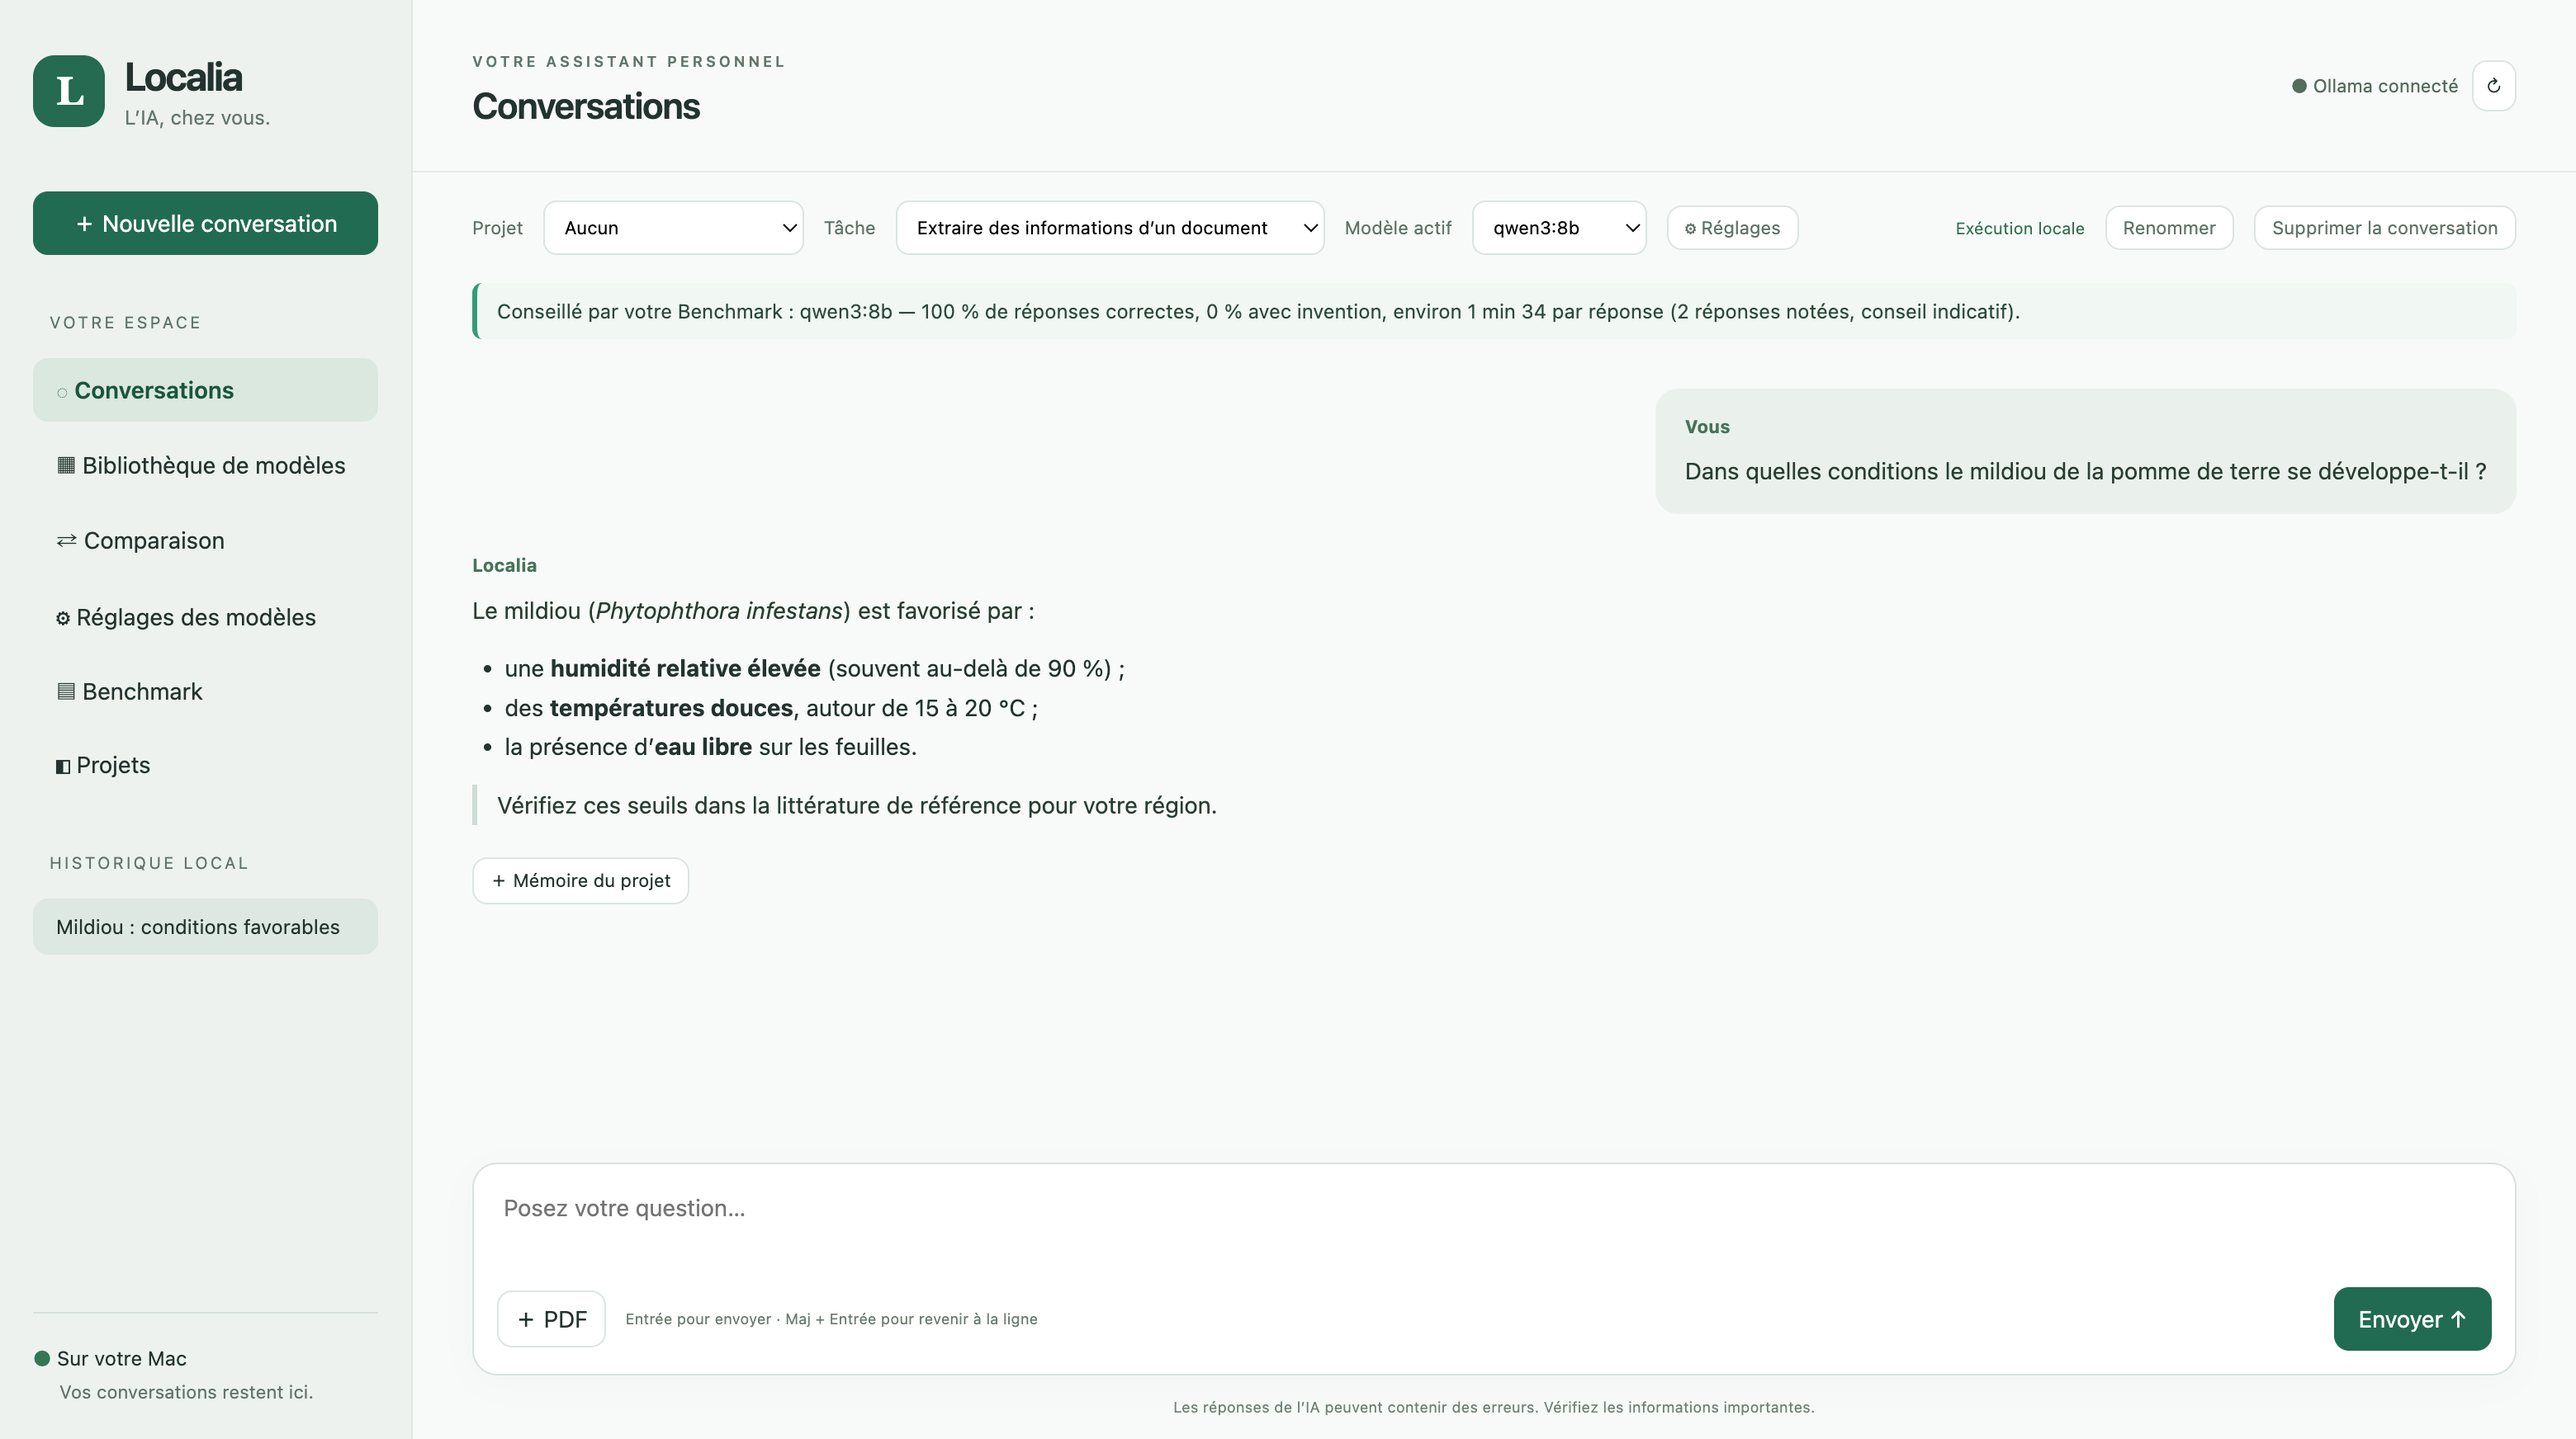
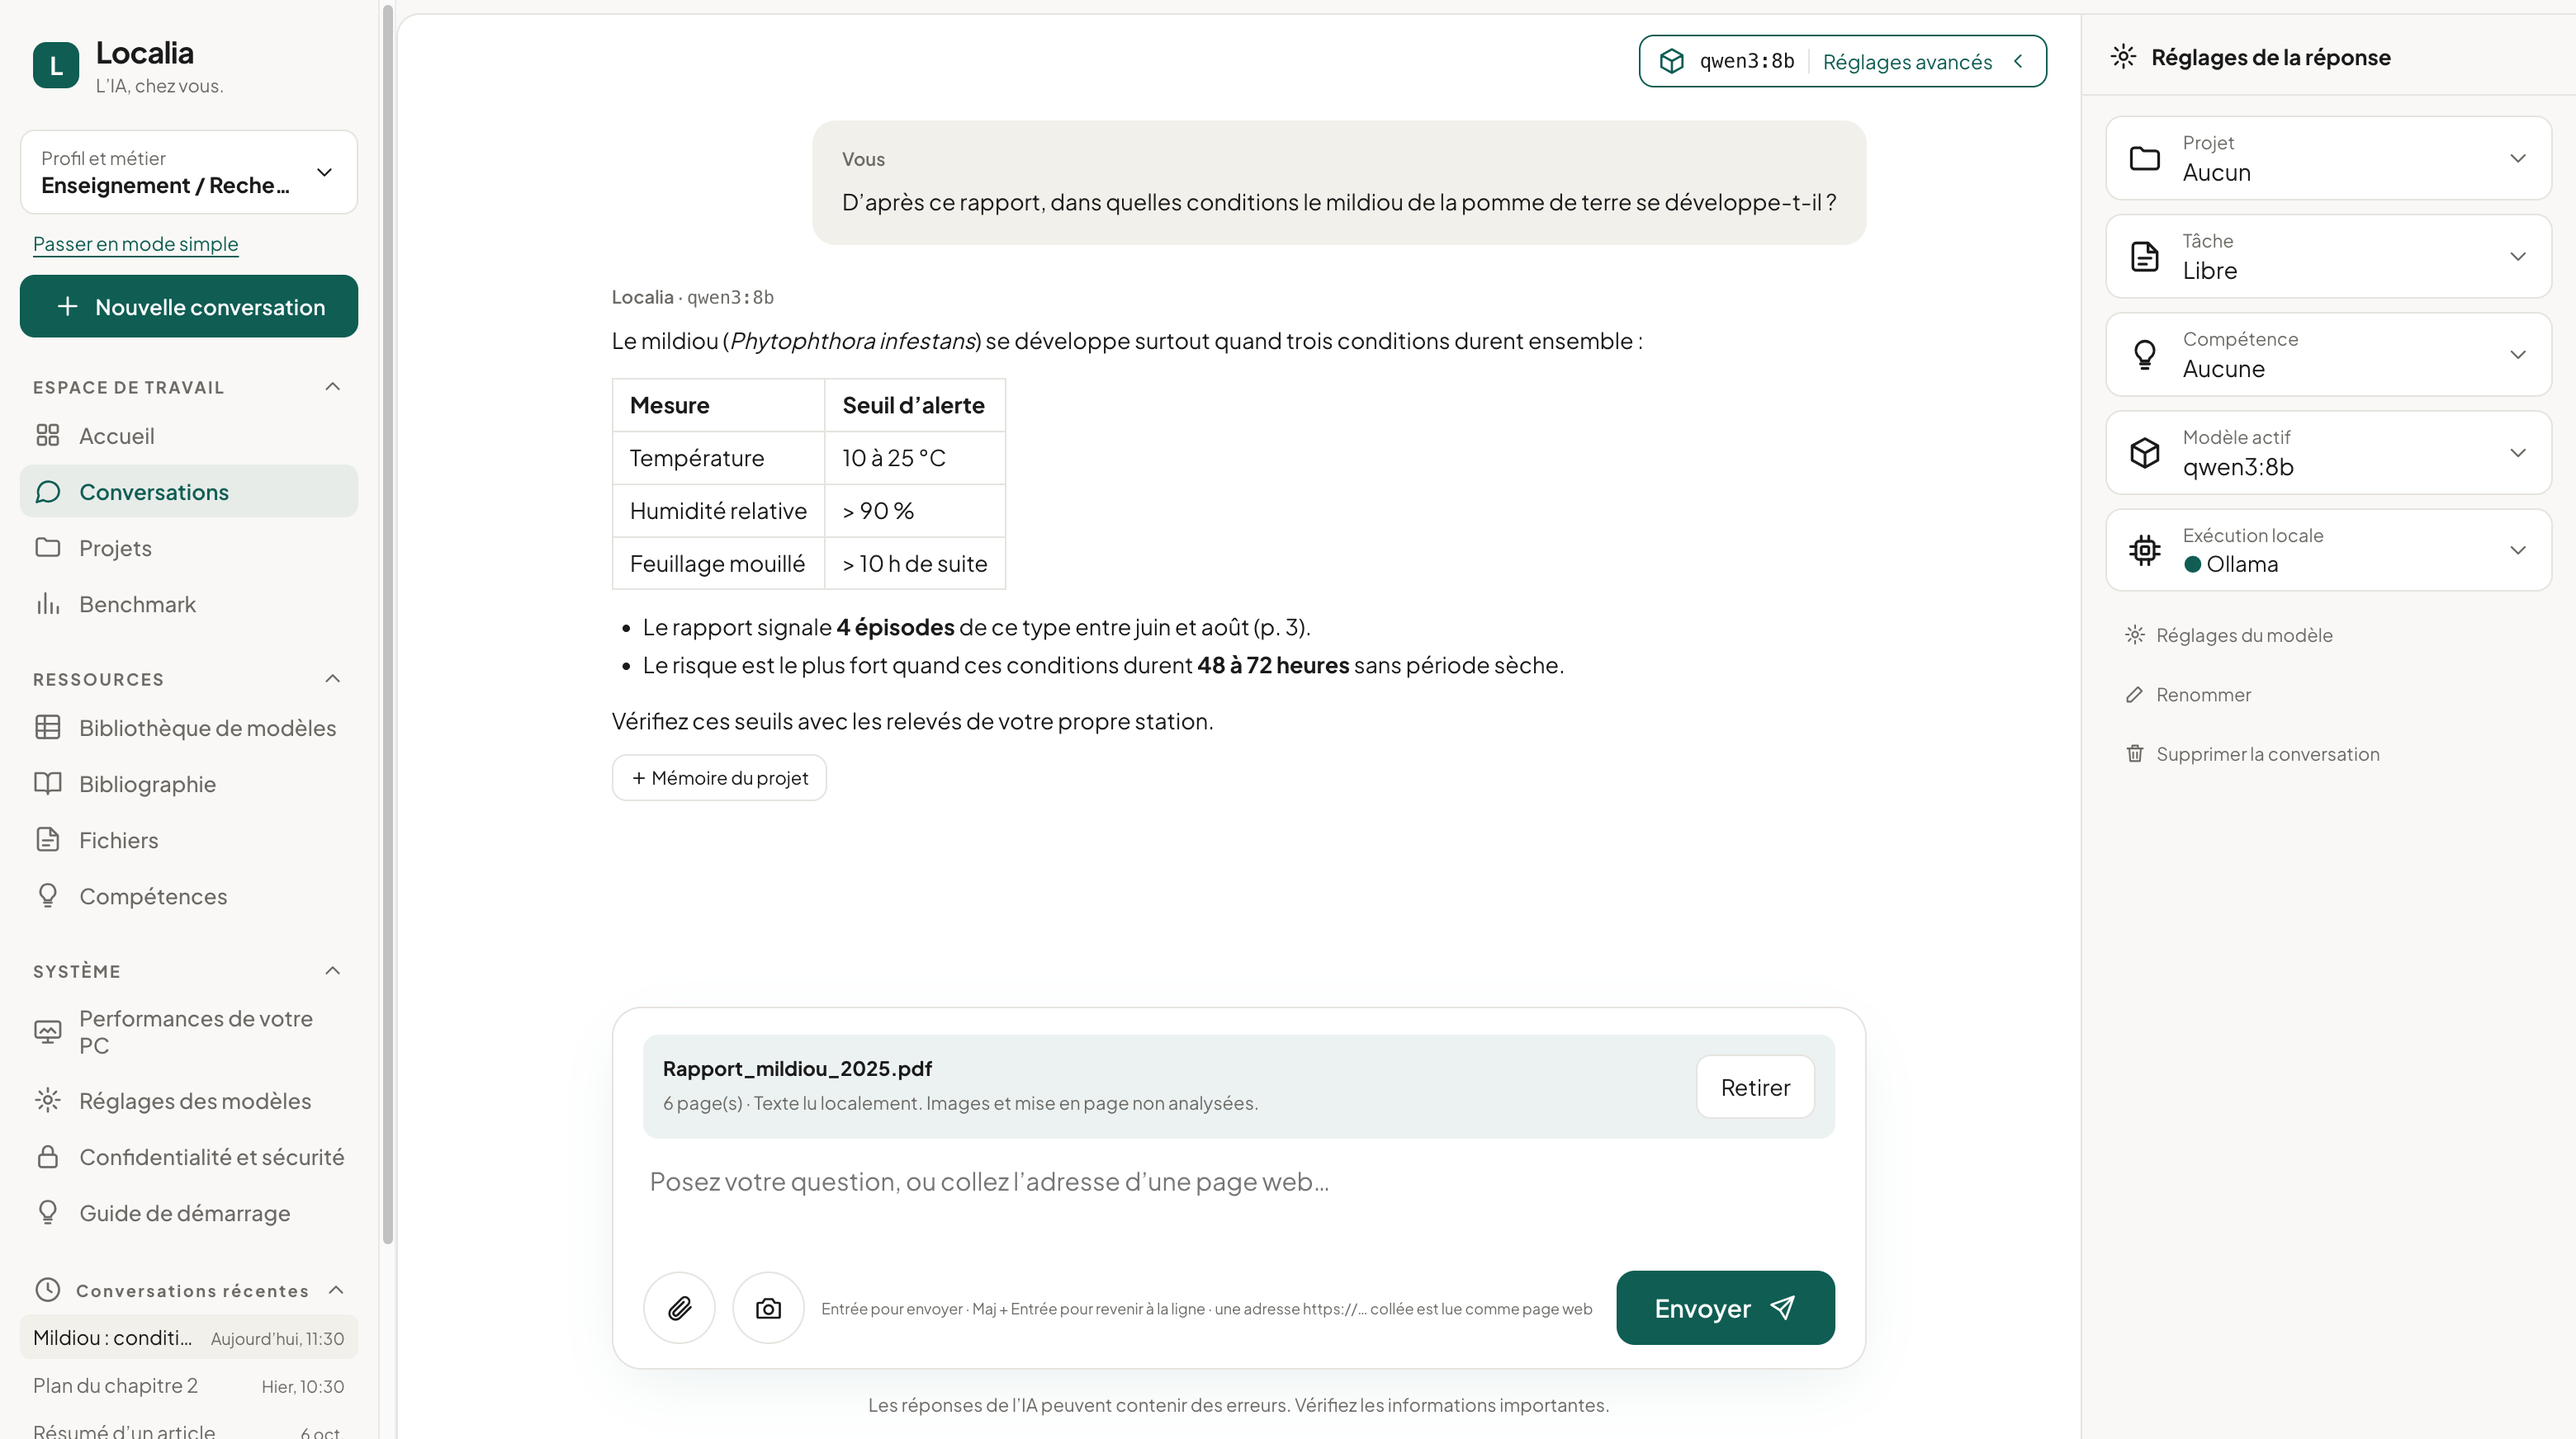
README : captures de la nouvelle interface (modes simple et avancé)

diff --git a/README.fr.md b/README.fr.md
@@ -6,8 +6,10 @@
 
 Localia est une application de bureau pour macOS, Windows et Linux, pour utiliser des modèles de langage locaux — avec son **moteur intégré** (llama.cpp, modèles téléchargés depuis Hugging Face) ou avec [Ollama](https://ollama.com) — et surtout pour **les comparer de façon mesurable sur vos propres tâches**. Tout reste sur votre machine : aucun modèle cloud, aucune télémétrie.
 
-| Conversation | Benchmark |
+| Mode simple | Mode avancé : accueil |
 |---|---|
+| ![Mode simple : une question directe, avec le modèle conseillé pour votre métier](docs/simple.png) | ![Mode avancé : actions, modèle conseillé, travail récent et état du système](docs/home.png) |
+| **Conversation** | **Benchmark** |
 | ![Conversation avec un modèle local](docs/chat.png) | ![Benchmark : résultats par modèle](docs/benchmark.png) |
 | **Comparaison d'une série de questions** | **Graphiques du Benchmark** |
 | ![Vue d'ensemble d'une comparaison](docs/comparison.png) | ![Graphiques du Benchmark](docs/benchmark-charts.png) |

diff --git a/README.md b/README.md
@@ -6,8 +6,10 @@
 
 Localia is a desktop application for macOS, Windows and Linux for working with local language models — with its **integrated engine** (llama.cpp, models downloaded from Hugging Face) or with [Ollama](https://ollama.com) — and for **benchmarking those models on your own tasks**. Everything runs on your machine: no cloud model, no telemetry.
 
-| Chat | Benchmark |
+| Simple mode | Advanced mode: home |
 |---|---|
+| ![Simple mode: a direct question, with the model recommended for your profession](docs/simple.png) | ![Advanced mode: actions, recommended model, recent work and system status](docs/home.png) |
+| **Chat** | **Benchmark** |
 | ![Chat with a local model](docs/chat.png) | ![Benchmark: per-model results](docs/benchmark.png) |
 | **Comparison of a question series** | **Benchmark charts** |
 | ![Comparison overview](docs/comparison.png) | ![Benchmark charts](docs/benchmark-charts.png) |
